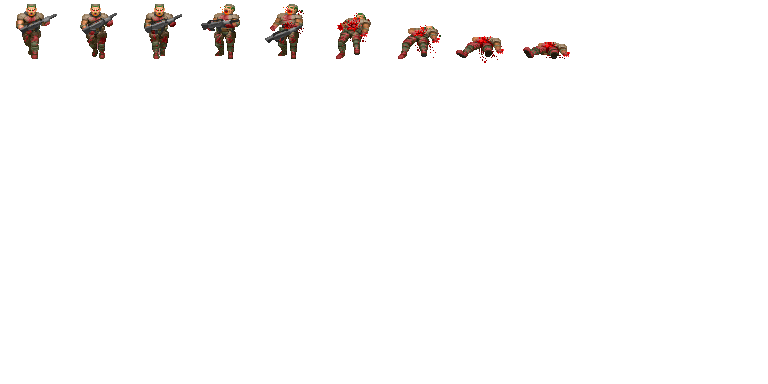
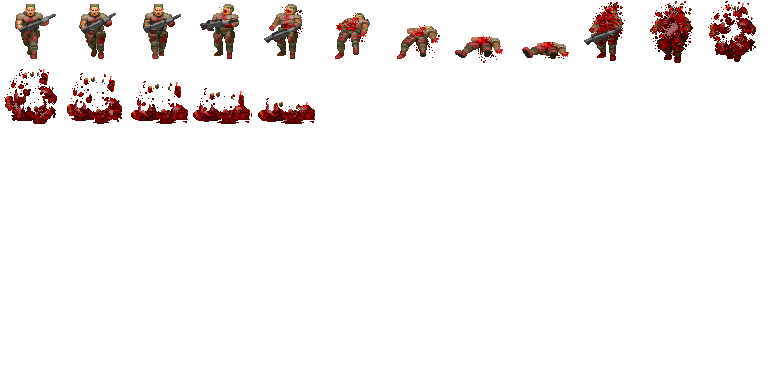
marine death gore anims

diff --git a/js/scene.js b/js/scene.js
@@ -146,14 +146,24 @@ if (BABYLON.Engine.isSupported()) {
                     case 1:
                     case 2:
                     case 3:
-                        this.playAnimation(3, 7, 150); // death animation
+                        switch (this.type) {
+                            case "imp":
+                                this.playAnimation(3, 7, 150); // death animation
+                                break;
+                            case "marine":
+                                this.playAnimation(3, 8, 150);
+                                break;
+                        }
                         break;
                     case 4:
                     case 5:
-                        if (this.type === "marine") {
-                            this.playAnimation(3, 8, 150);
-                        } else if (this.type === "imp") {
-                            this.playAnimation(8, 15, 150); // death animation
+                        switch (this.type) {
+                            case "imp":
+                                this.playAnimation(8, 15, 150); // death animation
+                                break;
+                            case "marine":
+                                this.playAnimation(9, 16, 150);
+                                break;
                         }
                         break;
                 }
